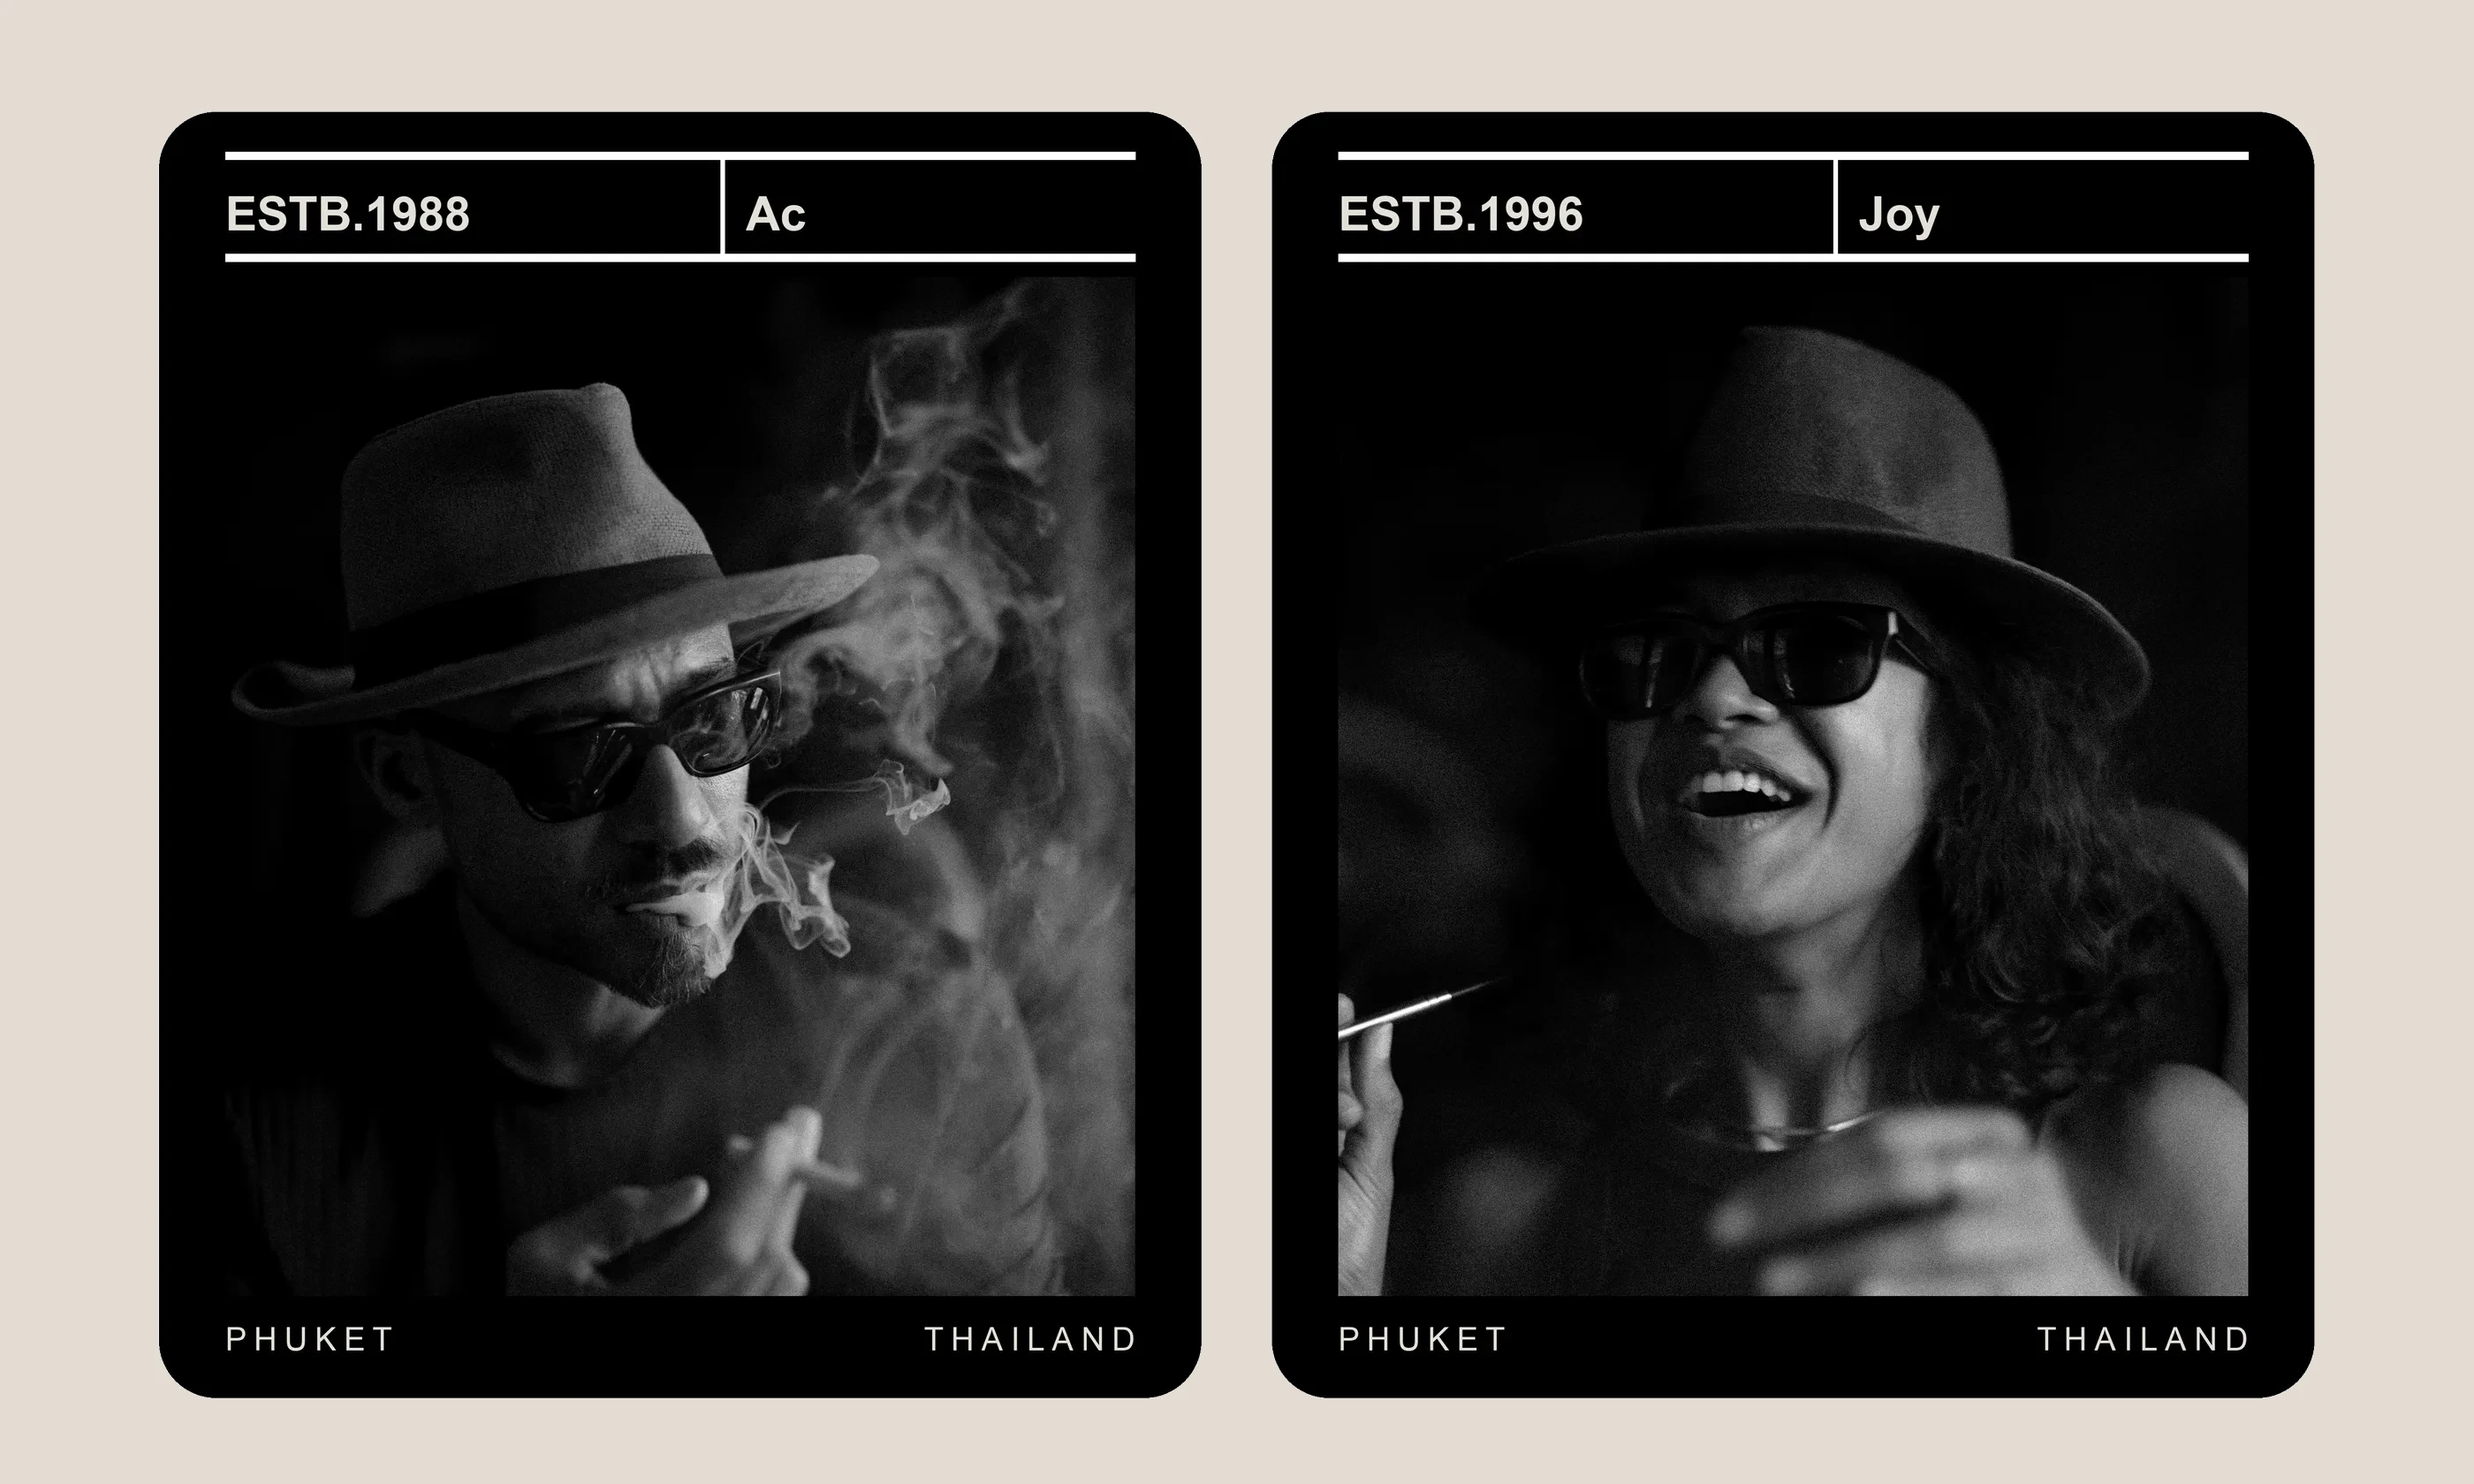
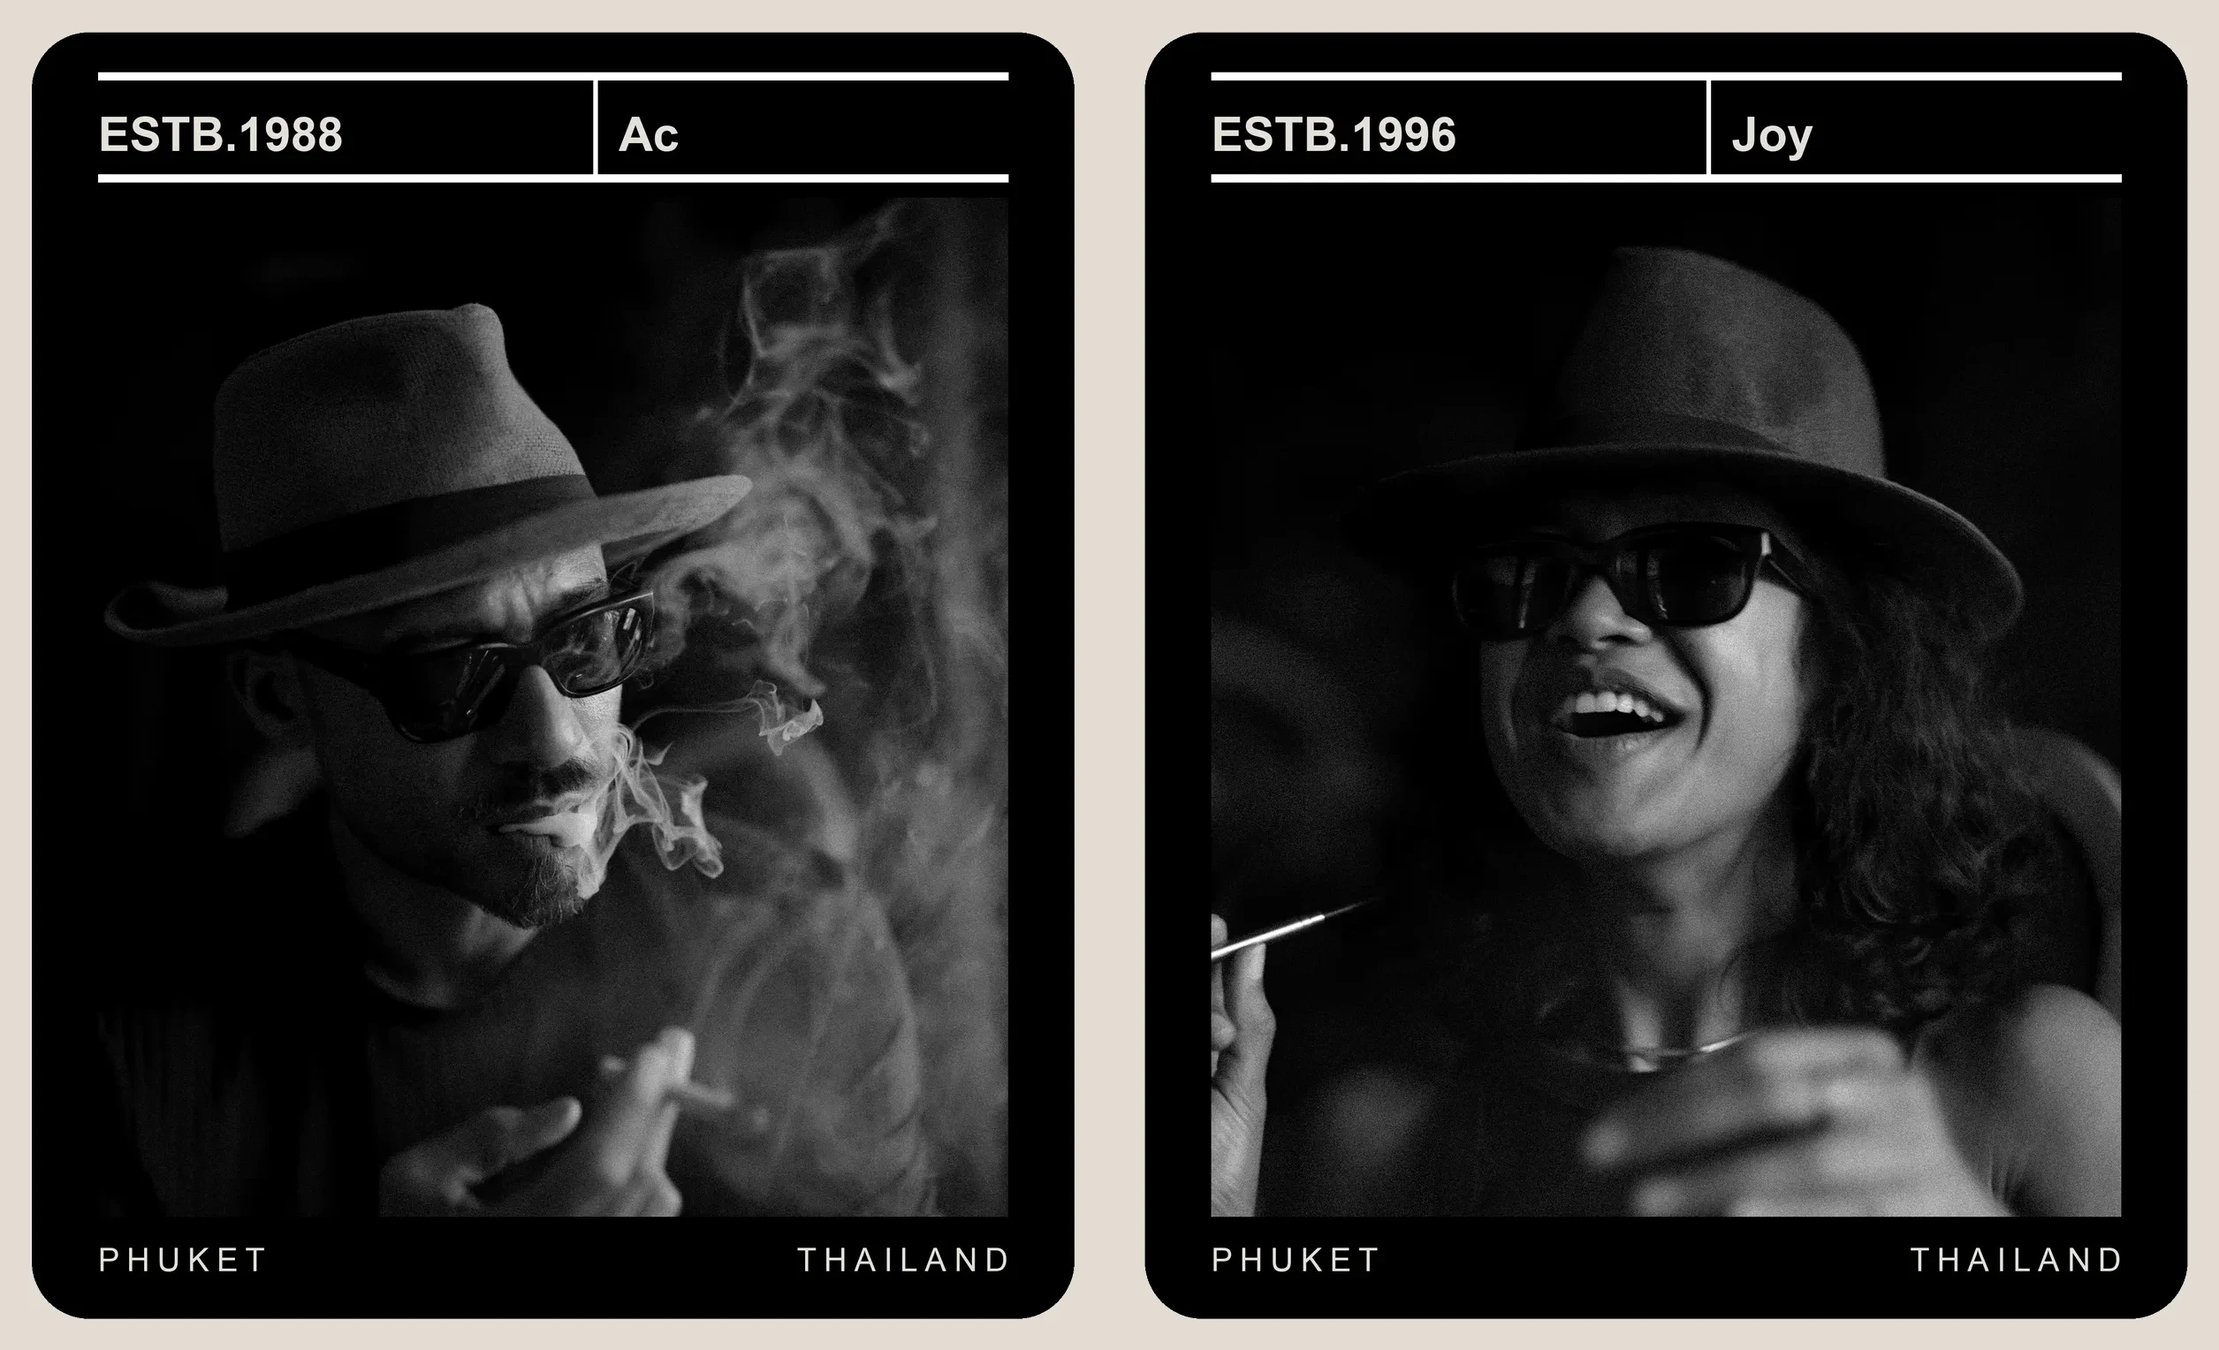
Add files via upload

diff --git a/src/components/ProductStory.tsx b/src/components/ProductStory.tsx
@@ -32,6 +32,9 @@ interface ProductStoryItem {
   // corners and equal spacing intact.
   imageContain?: boolean;
   frameBgClass?: string;
+  // Aspect ratio for the frame itself, matched to a `contain` graphic so the
+  // image fills it edge-to-edge with no extra beige letterboxing.
+  frameAspect?: string;
 }
 
 interface StoryItemProps {
@@ -56,7 +59,8 @@ const PRODUCT_STORIES: ProductStoryItem[] = [
     href: "/products",
     ctaLabel: "Shop the collection",
     imageContain: true,
-    frameBgClass: "bg-[#E3DCD4]"
+    frameBgClass: "bg-[#E3DCD4]",
+    frameAspect: "2511 / 1528"
   },
   {
     id: 2,
@@ -196,13 +200,14 @@ const StoryItem = React.memo<StoryItemProps>(({ story, index, isEven }) => {
       >
         <div
           className={`w-full rounded-box overflow-hidden shadow-lg transition-[transform,box-shadow] duration-500 ease-out group-hover:scale-[1.02] group-hover:shadow-2xl ${story.frameBgClass ?? ''}`}
-          style={{aspectRatio: '16/10'}}
+          style={{aspectRatio: story.frameAspect ?? '16/10'}}
         >
           {story.imageContain ? (
-            /* Graphic (founders' cards): shown whole on the beige mat with
-               even padding on every side — no crop, no parallax drift — so
-               the cards keep their rounded corners and equal spacing. */
-            <div className="relative w-full h-full p-4 sm:p-6 lg:p-8">
+            /* Graphic (founders' cards): shown whole on the beige mat with a
+               slim, even margin on every side — no crop, no parallax drift —
+               so the cards nearly fill the frame while keeping their rounded
+               corners and equal spacing. */
+            <div className="relative w-full h-full p-1.5 sm:p-2">
               <Image
                 src={story.imageSrc}
                 alt={story.imageAlt}

diff --git a/src/components/LandingIntro.tsx b/src/components/LandingIntro.tsx
@@ -74,7 +74,7 @@ export default function LandingIntro() {
             <div className="flex flex-wrap items-center justify-center lg:justify-start gap-x-5 gap-y-4 mt-8">
               <Link
                 href="/products"
-                className="font-label-mono text-[#B49B73] text-xs sm:text-sm uppercase tracking-[0.2em] border border-[#B49B73]/60 hover:border-[#B49B73] hover:bg-[#B49B73]/10 rounded-box px-8 py-4 transition-colors normal-case"
+                className="font-label-mono text-[#B49B73] text-xs sm:text-sm uppercase tracking-[0.2em] border border-[#B49B73]/60 hover:bg-[#B49B73] hover:text-[#0A0A0A] hover:border-[#B49B73] rounded-box px-8 py-4 transition-colors normal-case"
               >
                 Shop the counter
               </Link>

diff --git a/src/app/globals.css b/src/app/globals.css
@@ -100,6 +100,15 @@
        the native bounce-and-snap-back intact so the page re-centers
        itself instead of sticking. */
     overscroll-behavior-x: contain;
+    /* `clip`, NOT `hidden`: iOS Safari doesn't reliably honour overflow-x
+       hidden on <body> alone (a sub-pixel/full-bleed child still let the
+       viewport pan right, showing a black strip). `overflow-x: clip` on
+       <html> stops that at the root. Unlike `hidden`, `clip` does NOT
+       create a scroll container, so it leaves overflow-y as `visible`
+       (this is the one pairing the spec doesn't force to `auto`) — vertical
+       scrolling stays on the viewport and `position: sticky`/`fixed` are
+       unaffected. */
+    overflow-x: clip;
   }
 
   body {
